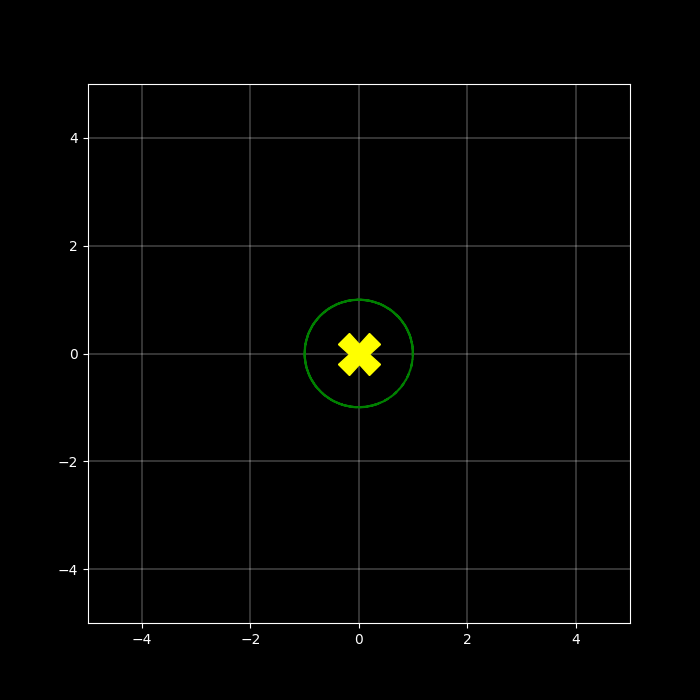
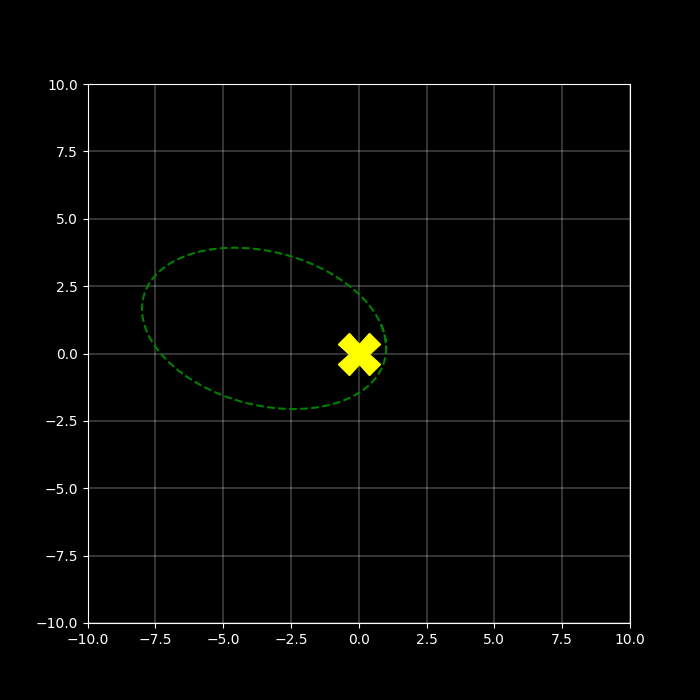
added alternate elliptical method

diff --git a/elliptical_orbit2.py b/elliptical_orbit2.py
@@ -1,0 +1,192 @@
+from dataclasses import dataclass
+import numpy as np
+import matplotlib.pyplot as plt
+from matplotlib.animation import FuncAnimation
+
+# constants
+iterations = 5000
+step = 0.002  # in yrs. This will be our delta_t
+bodies = []  # initialize
+
+
+@dataclass
+class Point:
+    r: float
+    theta: float
+
+
+class Vector(Point):
+    pass
+
+
+def reduced_mass(body_list):
+    masses = []
+    for body in body_list:
+        masses.append(body.mass)
+    mu = np.product(masses) / np.sum(masses)
+
+    return mu
+
+
+# def center_of_mass(body_list):
+#     masses = []  # initialize
+#     positions_times_masses = []  # initialize
+#     for body in body_list:
+#         masses.append(body.mass)
+#         pm =
+class Sun:
+    def __init__(self, pos: Point, mass: float):
+        self.pos = pos
+        self.mass = mass
+        self.x_vals = []
+        self.y_vals = []
+
+    def add(self):
+        bodies.append(self)
+
+    def cartesian_pos(self):
+        x = self.pos.r * np.cos(self.pos.theta)
+        y = self.pos.r * np.sin(self.pos.theta)
+
+        return x, y
+
+    def run(self):
+        for iteration in range(iterations):
+            x, y = self.cartesian_pos()
+            self.x_vals.append(x)
+            self.y_vals.append(y)
+
+
+class Body:
+    def __init__(self, pos: Point, vel: Vector, mass: float, delta_t: float):
+        self.pos = pos  # initial position in polar coordinates
+        self.vel = vel  # initial velocity in polar coordinates
+        self.mass = mass
+        self.ang_mom = 0.0  # initialize; this is NOT the initial angular momentum though
+        self.delta_t = delta_t  # this will actually be the same for all bodies.
+
+        # # for convenience when i need to use Cartesian coordinates
+        # self.x = self.pos.r * np.cos(self.pos.theta)
+        # self.y = self.pos.r * np.sin(self.pos.theta)
+        # self.vx = self.vel.r * np.cos(self.pos.theta) - self.pos.r * self.vel.theta * np.sin(self.pos.theta)
+        # self.vy = self.vel
+        # self.r_dot =
+        # self.theta_dot = self.ang_mom / (reduced_mass(bodies) * self.radius ** 2)  # angular velocity
+
+        # for recording
+        self.x_vals = []  # initialize
+        self.y_vals = []
+        # self.velocities = []
+
+    def add(self):  # gotta do this whenever you add a new body to the system
+        bodies.append(self)
+
+    def calc_ang_mom(self):  # only use this and following methods AFTER adding bodies to body list
+        try:
+            self.ang_mom = reduced_mass(bodies) * (self.pos.r ** 2) * self.vel.theta
+        except (len(bodies) == 0):
+            print('You haven\'t added any bodies yet!')
+            self.ang_mom = 0.0
+
+    def cartesian_pos(self):
+        x = self.pos.r * np.cos(self.pos.theta)
+        y = self.pos.r * np.sin(self.pos.theta)
+
+        return x, y
+
+    def cartesian_vel(self):
+        vx = (self.vel.r * np.cos(self.pos.theta)) - (self.pos.r * self.vel.theta * np.sin(self.pos.theta))
+        vy = (self.vel.r * np.sin(self.pos.theta)) + (self.pos.r * self.vel.theta * np.cos(self.pos.theta))
+
+        return vx, vy
+
+    def update(self):
+        r = self.pos.r  # calculate current radius
+        x, y = self.cartesian_pos()  # initial Cartesian position
+        vx, vy = self.cartesian_vel()  # initial Cartesian velocity
+        delta_t = self.delta_t
+        factor = 4 * (np.pi ** 2) / (r ** 3)
+        mu = reduced_mass(bodies)
+
+        l = self.ang_mom  # why does this get bigger over time?  # test
+        # print('Earth angular momentum at update() method: {}'.format(self.ang_mom))  # test
+
+        # Euler-Cromer step
+        vxf = vx - (factor * x * delta_t)
+        vyf = vy - (factor * y * delta_t)
+        xf = x + (vxf * delta_t)
+        yf = y + (vyf * delta_t)
+
+        # update position
+        self.pos.r = np.sqrt((xf ** 2) + (yf ** 2))
+        self.pos.theta = np.arctan2(yf, xf)
+
+        # update velocity
+        self.vel.r = ((xf * vxf) + (yf * vyf)) / self.pos.r  # notice how I update r_dot AFTER updating r
+        # self.vel.theta = self.ang_mom() / (mu * (self.pos.r ** 2))  # self.ang_mom() is a constant
+        self.vel.theta = l / (mu * (self.pos.r ** 2))
+
+    def run(self):
+        # self.calc_ang_mom()  # want to run this method ONCE
+        for iteration in range(iterations):
+            x, y = self.cartesian_pos()
+            self.x_vals.append(x)
+            self.y_vals.append(y)
+            # self.velocities.append(self.vel)
+            self.update()
+
+
+def main():
+    # make the Earth
+    earth_pos = Point(1.0, 0)  # in AU
+    earth_vel = Vector(0.0, 2.6 * np.pi)  # remember this is in Cartesian coordinates.
+    earth_mass = 3.0e-6  # in solar masses
+    # earth_l = 1.88e-5  # earth initial angular momentum in solar_masses * AU**2 * rad / yr
+    earth = Body(earth_pos, earth_vel, earth_mass, step)
+
+    # make the Sun
+    sun_pos = Point(0.0, 0.0)
+    # sun_vel = Vector(0.0, 0.0)
+    sun_mass = 1.0
+    # sun_l = 0.0
+    sun = Sun(sun_pos, sun_mass)
+
+    # add all objects to the simulation at once
+    earth.add()
+    sun.add()
+
+    # calculate angular momentum for Earth
+    earth.calc_ang_mom()
+    print('Earth angular momentum at initial calculation: {}'.format(earth.ang_mom))
+
+    # run the simulation
+    for body in bodies:
+        body.run()  # this only works because both Sun and Body objects have run() methods
+
+    # now animate
+    plt.style.use('dark_background')
+    fig, ax = plt.subplots(figsize=(7, 7))  # set figure size
+    ax.set_xlim(-10, 10)
+    ax.set_ylim(-10, 10)
+
+    body_plots = []
+    for body in bodies:
+        ax.plot(body.x_vals, body.y_vals, 'y--')
+        body_plot, = ax.plot([], [], 'g.', markersize=15)
+        body_plots.append(body_plot)
+
+    plt.grid(True, lw=0.3)  # plot grid
+    plt.savefig('output/elliptical_orbit2.png')
+
+    def animate(i):
+        for (j, k) in zip(bodies, body_plots):
+            k.set_data(j.x_vals[i], j.y_vals[i])
+        return body_plots
+
+    animation = FuncAnimation(fig, animate, frames=iterations, interval=200, repeat=True)
+    animation.save('output/elliptical_orbit2.gif', writer='pillow')  # mp4 doesn't work
+    plt.show()
+
+
+if __name__ == '__main__':
+    main()

diff --git a/elliptical_orbit.py b/elliptical_orbit.py
@@ -4,7 +4,7 @@ import matplotlib.pyplot as plt
 from matplotlib.animation import FuncAnimation
 
 # time step
-iterations = 10000
+iterations = 5000
 step = 0.002  # in yr
 
 # specify constants
@@ -87,7 +87,7 @@ earth, = ax.plot([], [], 'g.', markersize=15)
 sun = ax.plot(0, 0, 'X', markersize=30, color='yellow')
 ax.plot(xdata, ydata, 'g--')
 plt.grid(True, lw=0.3)  # plot grid
-# plt.savefig('output/circular_orbit.png')
+plt.savefig('output/elliptical_orbit.png')
 
 
 def animate(i):
@@ -96,5 +96,5 @@ def animate(i):
 
 
 animation = FuncAnimation(fig, animate, frames=iterations, interval=200, repeat=True)
-# animation.save('output/circular_orbit.gif', writer='pillow')  # mp4 doesn't work
+animation.save('output/elliptical_orbit.gif', writer='pillow')  # mp4 doesn't work
 plt.show()
